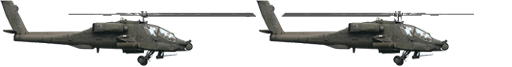
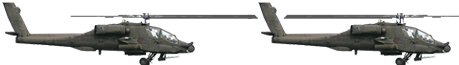
Corte de figuras para melhorar colisões.

diff --git a/css/estilos.css b/css/estilos.css
@@ -31,7 +31,7 @@ body {
 }
 
 #jogador {
-	width: 256px;
+	width: 210px;
 	height: 66px;
 	position: absolute;
 	left: 8px;
@@ -40,7 +40,7 @@ body {
 }
 
 #inimigo1 {
-	width: 256px;
+	width: 210px;
 	height: 66px;
 	position: absolute;
 	left: 689px;
@@ -75,6 +75,26 @@ body {
  	margin-top: 100px;
 	text-align: center;
 	padding: 10px;
+}
+
+#disparo {
+	width: 50px;
+	height: 8px;
+	position: absolute;
+	background-image: url(../imgs/disparo.png);
+}
+
+
+#explosao1 {
+	width: 15px;
+	height: 87px;
+	position: absolute;
+}
+
+#explosao2 {
+	width: 15px;
+	height: 87px;
+	position: absolute;
 }
 
 .anima1 {
@@ -127,7 +147,7 @@ body {
 .anima3 {
 	background-image:url(../imgs/amigo.png);
 	animation:play2 .9s steps(12) infinite;
-	
+
 	-webkit-animation: play2 .9s steps(12) infinite;
 	-moz-animation: play2 .9s steps(12) infinite;
 	-ms-animation: play2 .9s steps(12) infinite;
